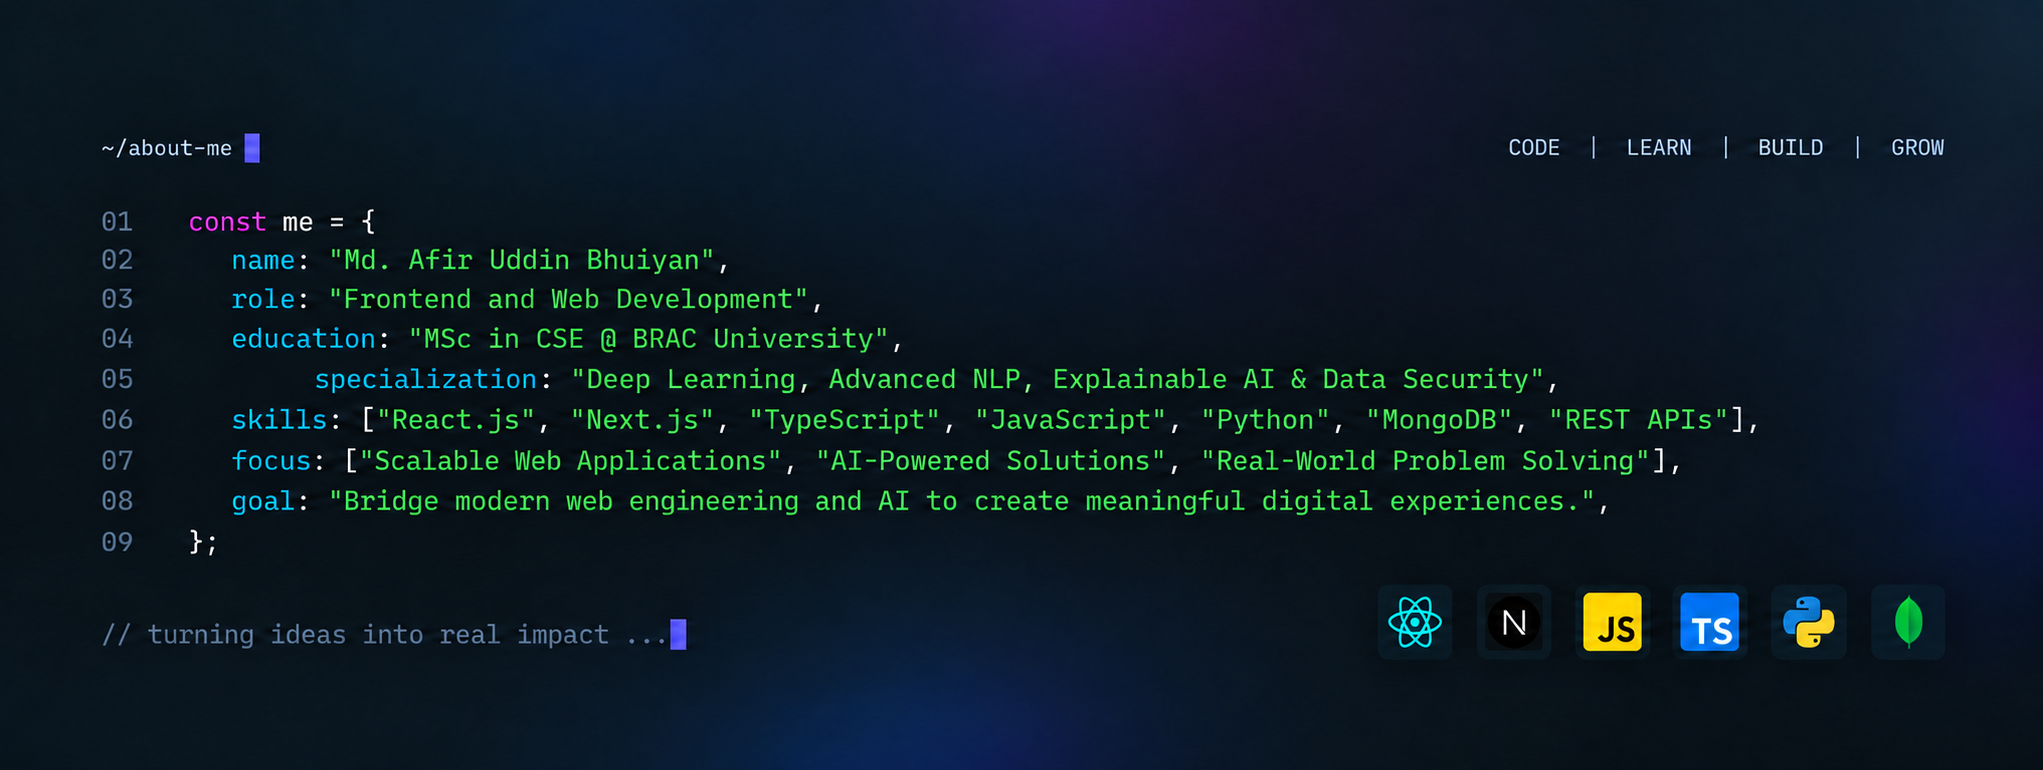
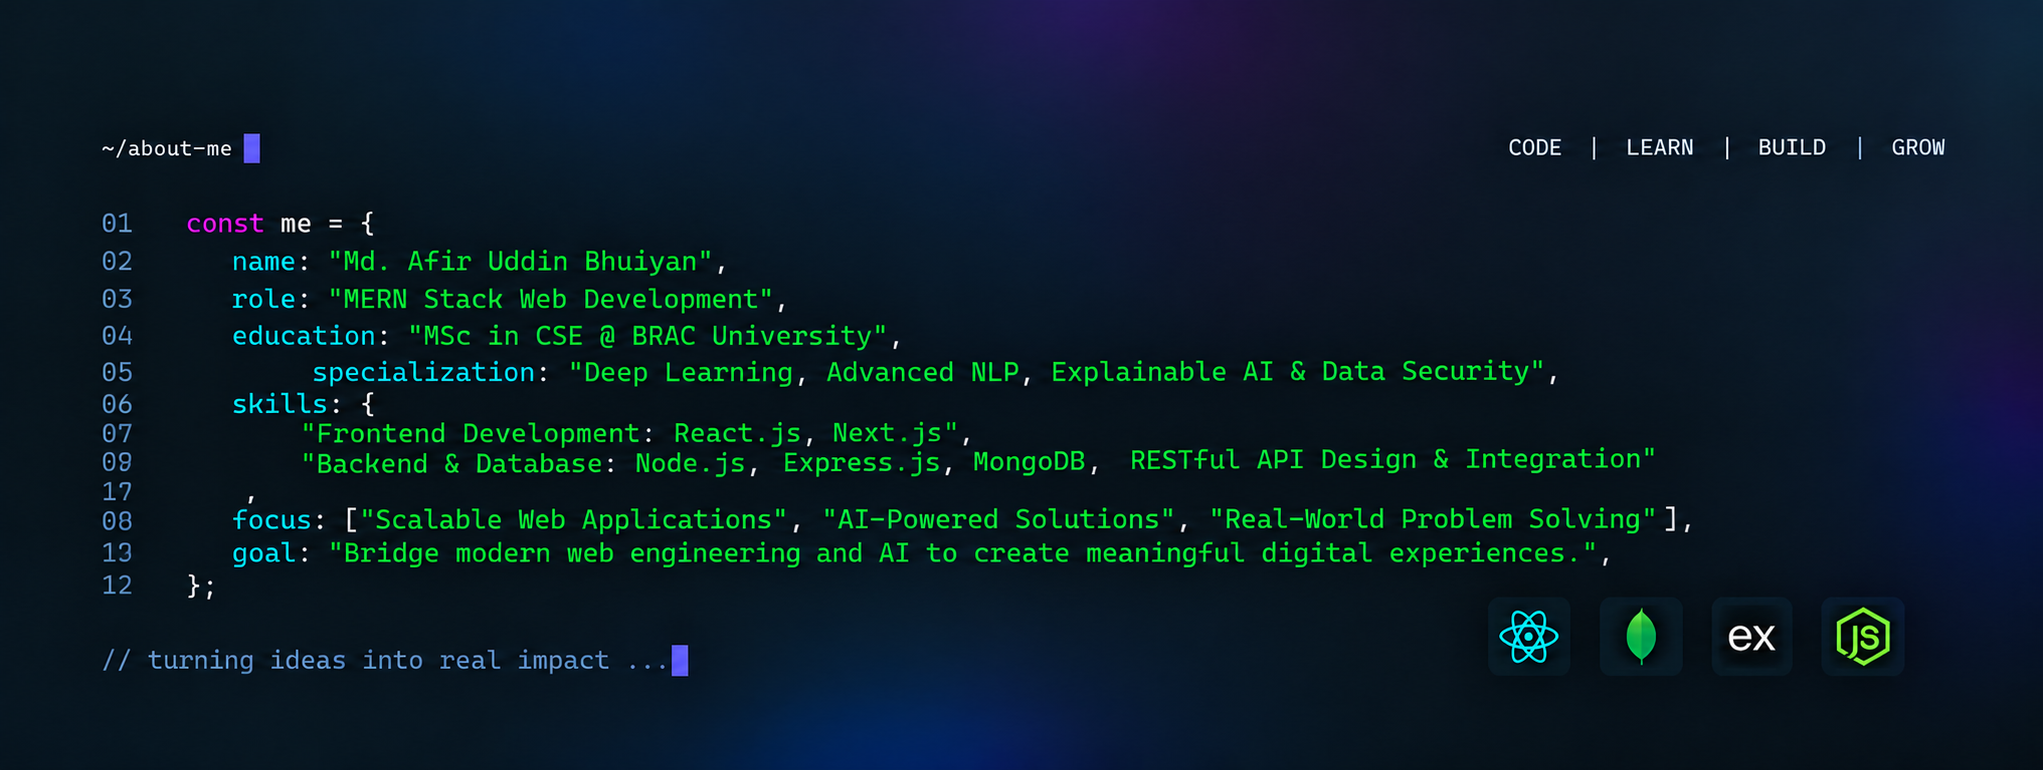
added changes

diff --git a/README.md b/README.md
@@ -14,7 +14,7 @@
 <p align="center">
   <a href="https://github.com/DenverCoder1/readme-typing-svg">
     <img 
-      src="https://readme-typing-svg.herokuapp.com?lines=Research+oriented+CSE+Graduate;Frontend+Developer;AI+Enthusiast;&center=true&width=500&height=50"
+      src="https://readme-typing-svg.herokuapp.com?lines=MERN+Stack+Web+Development;Research+oriented+CSE+Graduate;AI+Enthusiast;&center=true&width=500&height=50"
       alt="Typing SVG"
     >
   </a>
